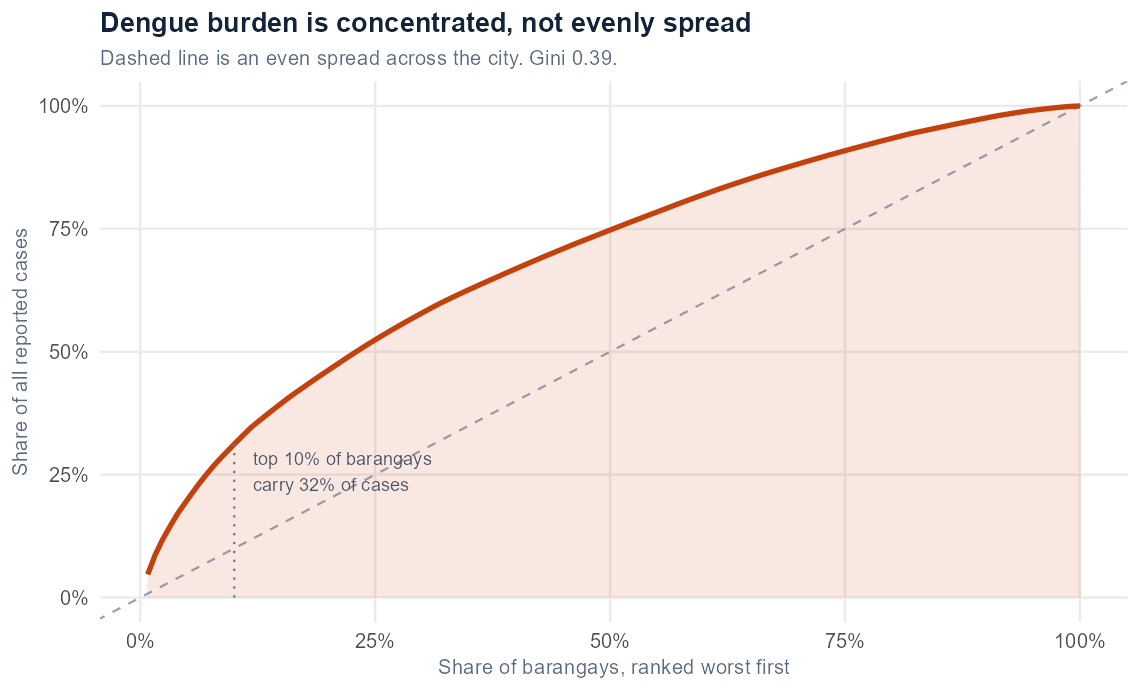
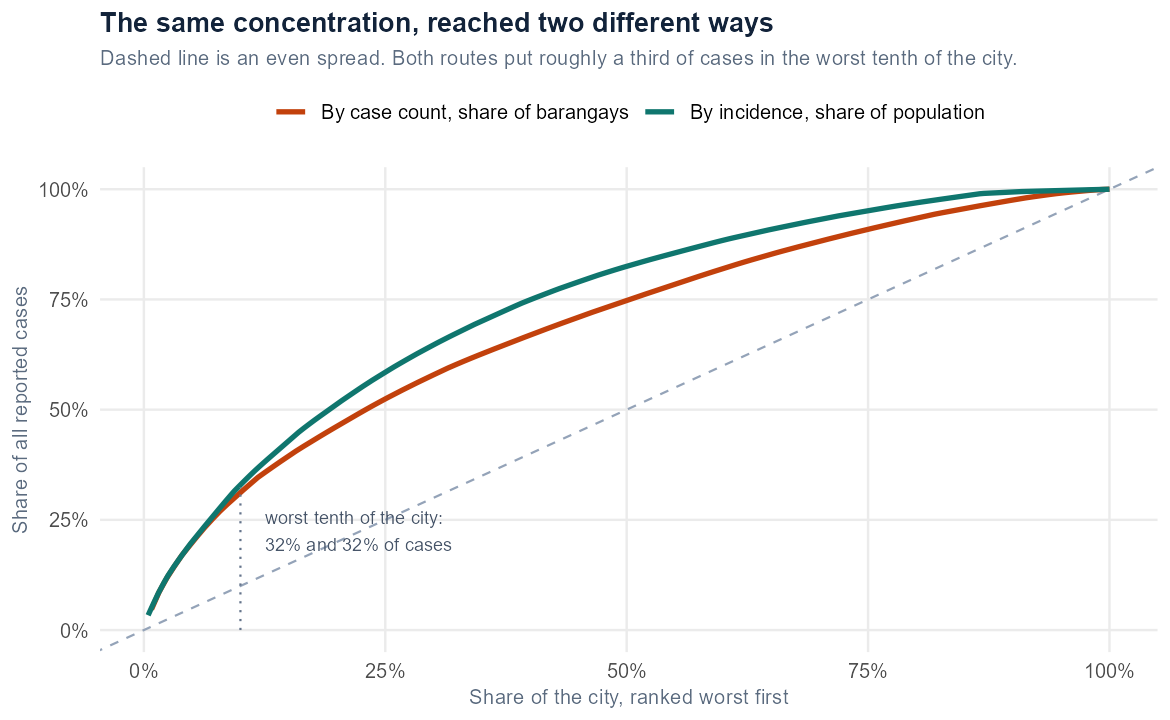
Test the concentration finding against population, and report what broke
The headline claim was computed on raw case counts, which would be
meaningless if larger barangays simply had more cases. They do not:
case count and residential population correlate at 0.08. Re-deriving the
result from population-normalised incidence puts 32.4 per cent of cases
in the worst tenth of the city against 31.7 per cent by count, so the
finding survives its own check.

The check also exposed a denominator failure worth more than the original
result. Residential population is the wrong denominator for the
commercial core: one market barangay houses 31 residents and recorded 133
cases, a nominal 4,290 per 1,000. Twenty-one barangays under a thousand
residents are now held out of the rate calculation, and the choropleth
stays on counts for the same reason.

diff --git a/index.html b/index.html
@@ -123,11 +123,29 @@
         <p>
           The substantive finding is that the burden is
           <strong>concentrated rather than citywide</strong>. The worst tenth of
-          barangays carry <strong>32 per cent</strong> of all reported cases, the
-          worst quarter carry 53 per cent, and half of every case in the period
-          falls inside just 23 per cent of the city, a Gini of 0.39. An outbreak
-          shaped like that is answered by targeting a short list of areas, not by
-          spending evenly across 127 of them.
+          barangays carry <strong>32 per cent</strong> of all reported cases and
+          the worst quarter carry 53 per cent. An outbreak shaped like that is
+          answered by targeting a short list of areas, not by spending evenly
+          across 127 of them.
+        </p>
+        <p>
+          The obvious objection is that bigger barangays simply have more people
+          to infect, so the result would be arithmetic rather than epidemiology.
+          It is not: case count and residential population correlate at
+          <strong>0.08</strong>, essentially not at all. Normalising by
+          population and re-ranking by incidence puts <strong>32.4 per cent</strong>
+          of cases in the worst tenth, against 31.7 per cent by raw count. Two
+          different denominators, the same answer.
+        </p>
+        <p>
+          That check surfaced a second problem worth more than the first. Dengue
+          rates are unusable for the commercial core, because the denominator is
+          <em>residential</em> population while the people at risk are the daytime
+          crowd. One market barangay houses 31 residents and recorded 133 cases,
+          a nominal rate of 4,290 per 1,000, which would mean every resident
+          infected four times over. Twenty-one barangays under a thousand
+          residents are held out of the rate calculation rather than allowed to
+          quietly distort it.
         </p>
         <p>
           Getting there took more cleaning than modelling. Two traps in this
@@ -156,7 +174,8 @@
           <figcaption>
             Regenerated in R from the survey boundaries. They arrive as CAD
             linestrings, so they are polygonised and dissolved by PSGC code
-            before joining. Deliberately unlabelled.
+            before joining. Shaded by case count rather than rate, for the
+            denominator reason above, and deliberately unlabelled.
           </figcaption>
         </figure>
         <div class="lab" style="margin-top:16px">
@@ -174,7 +193,9 @@
         <figure class="panel">
           <img src="assets/img/fig-dengue-concentration.png" alt="Cumulative share of dengue cases against barangays ranked by burden, bowing well above the even-spread diagonal.">
           <figcaption>
-            How far the curve bows above the diagonal is how unequal the burden is.
+            How far a curve bows above the diagonal is how unequal the burden is.
+            The two routes are computed from different denominators and land in
+            the same place, which is the reason to believe either of them.
           </figcaption>
         </figure>
       </div>

diff --git a/cv/cv.tex b/cv/cv.tex
@@ -105,11 +105,12 @@ design and content produced in house. Client names withheld.}
 \proj{Dengue surveillance analysis, Baguio City}{R, QGIS}
 Reconstructed barangay-level surveillance across 127 barangays and 23 reporting
 weeks, joined on PSGC codes and mapped as a choropleth. Showed the burden is
-concentrated rather than citywide: the worst tenth of barangays carry 32\% of
-reported cases and half of all cases fall inside 23\% of the city, a Gini of 0.39,
-which argues for targeted rather than uniform control. Also found two defects that
-silently corrupt naive analysis: counts mislabelled as rates, and delimiter
-collisions inside area names.
+concentrated rather than citywide, the worst tenth of barangays carrying 32\% of
+cases, and confirmed this was not an artefact of barangay size by re-deriving it
+from population-normalised incidence (32.4\% against 31.7\%). That check exposed a
+denominator failure in the commercial core, where residential population
+understates the at-risk daytime population enough to yield nominal rates above
+4,000 per 1,000.
 
 \vspace{4pt}
 \proj{Compartmental epidemic models}{R, deSolve, Shiny}
